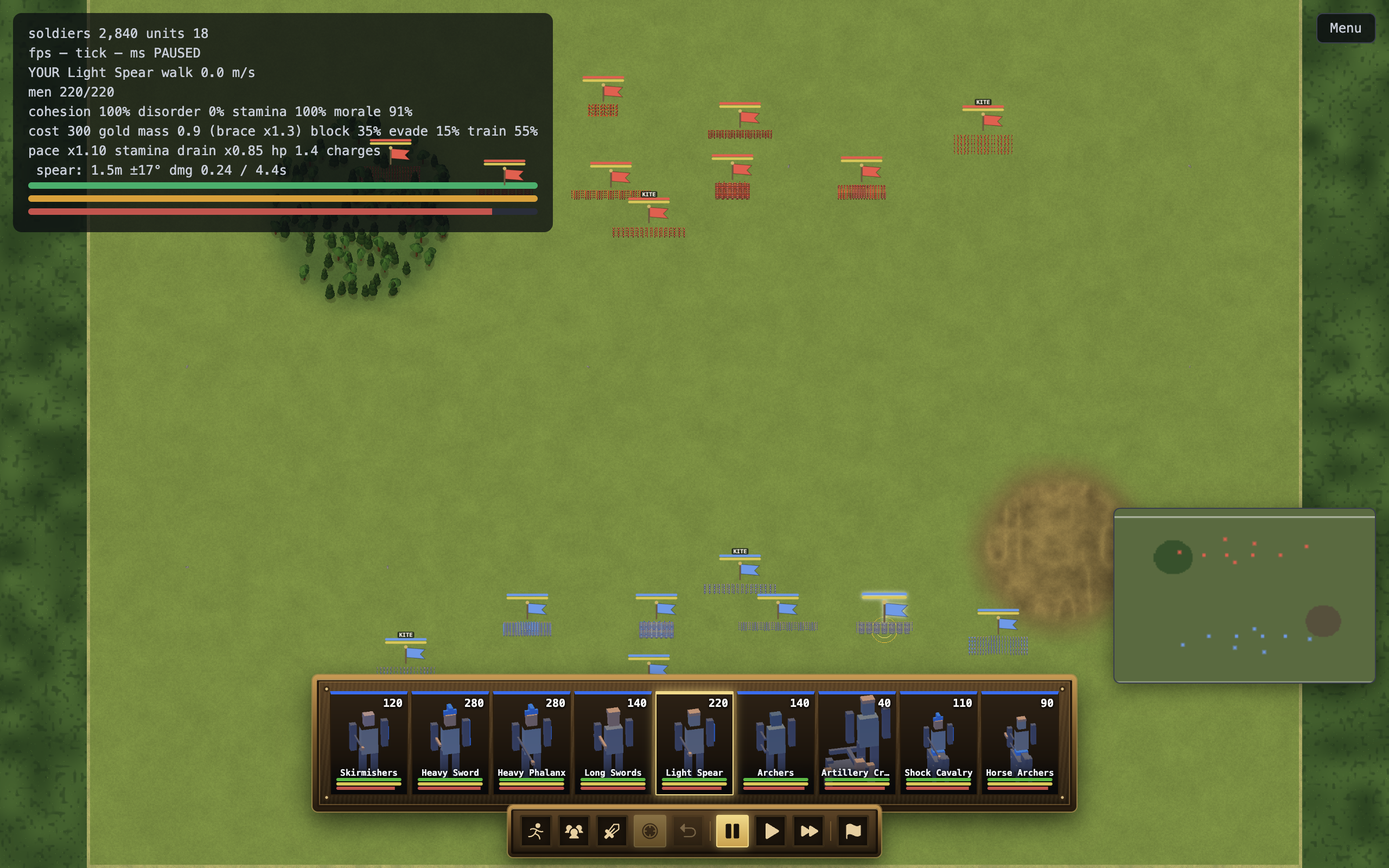
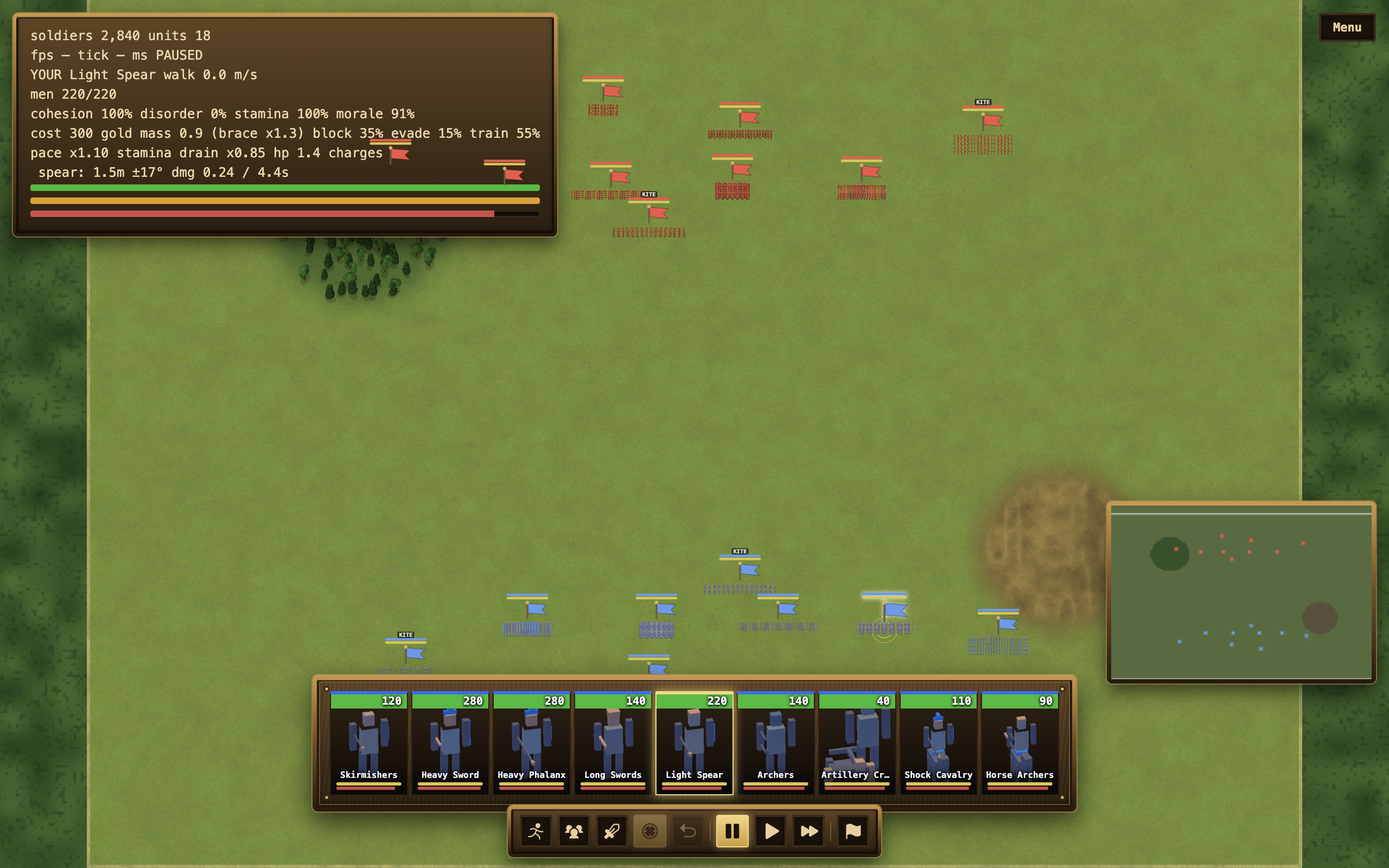
battle-ui: bronze the HUD info panel, top button, and minimap + spec
Begin the full battle-UI rewrite to the bronze game HUD (new specs/battle-ui):
seed shared design tokens in :root (--bronze-fill/-edge/-frame/-ink, --well-*) and
bring three more surfaces onto them —
- #hud (top-left unit-info panel): bronze housing, parchment text, stat bars in wells
- #buttons (top-right Menu): bronze well button
- #minimap: bronze beveled frame (canvas render untouched)
The whole battle HUD now reads as one Total War surface. battle-selection-dpr2
re-blessed. Menu + in-battle modals + the full token extraction remain.

diff --git a/web/index.html b/web/index.html
@@ -13,18 +13,34 @@
       font-display: swap;
     }
     html, body { margin: 0; height: 100%; overflow: hidden; background: #14161c; }
+    /* Bronze HUD design tokens — the one source for the game-UI chrome (card bar,
+       toolbar, info panel, minimap, buttons all consume these). A chassis is:
+       background: var(--bronze-fill) padding-box, var(--bronze-edge) border-box;
+       border: 3px solid transparent; box-shadow: var(--bronze-frame). */
+    :root {
+      --bronze-fill: linear-gradient(#5e4527, #2a1f11);
+      --bronze-edge: linear-gradient(#c79a54 0%, #6e5128 48%, #241a0e 100%);
+      --bronze-frame: inset 0 1px 0 rgba(236,200,132,0.6), inset 0 0 0 2px rgba(16,10,5,0.7), inset 0 -2px 6px rgba(0,0,0,0.55), 0 0 0 1px rgba(182,142,80,0.6), 0 7px 18px rgba(0,0,0,0.6);
+      --bronze-ink: #e7cfa0;
+      --bronze-ink-bright: #f6e4ba;
+      --well-bg: #1a130b;
+      --well-shadow: inset 0 0 0 1px rgba(150,114,62,0.3), inset 0 0 6px rgba(0,0,0,0.7);
+      --well-hover: inset 0 0 0 1px rgba(201,165,99,0.7), inset 0 0 6px rgba(0,0,0,0.6);
+    }
     #battlefield { display: block; width: 100vw; height: 100vh; }
     #hud {
       position: fixed; top: 12px; left: 12px;
       font: 12px/1.5 ui-monospace, Menlo, monospace;
-      color: #c8cdd8; background: rgba(10, 12, 16, 0.75);
-      padding: 10px 14px; border-radius: 8px; pointer-events: none;
-      min-width: 220px;
+      color: #ecd9b0; pointer-events: none; min-width: 220px;
+      padding: 9px 13px; border: 3px solid transparent; border-radius: 5px;
+      background: var(--bronze-fill) padding-box, var(--bronze-edge) border-box;
+      box-shadow: var(--bronze-frame);
     }
     #hud .bar {
-      height: 6px; background: #2a2e3a; border-radius: 3px; overflow: hidden; margin: 2px 0 6px;
+      height: 6px; background: rgba(6,8,5,0.8); border-radius: 2px; overflow: hidden; margin: 2px 0 6px;
+      box-shadow: inset 0 0 0 1px rgba(150,114,62,0.3);
     }
-    #hud .bar > div { height: 100%; background: #4caf6d; }
+    #hud .bar > div { height: 100%; background: #5cba46; }
     #help {
       position: fixed; bottom: 12px; left: 12px;
       font: 11px ui-monospace, Menlo, monospace; color: #6b7280;
@@ -33,11 +49,12 @@
       position: fixed; top: 12px; right: 12px; display: flex; gap: 8px;
     }
     #buttons button {
-      font: 12px ui-monospace, Menlo, monospace; color: #c8cdd8;
-      background: rgba(10,12,16,0.8); border: 1px solid #3a3f4d;
-      border-radius: 6px; padding: 6px 12px; cursor: pointer;
+      font: 700 11px ui-monospace, Menlo, monospace; color: var(--bronze-ink);
+      background: var(--well-bg); border: 1px solid #3a2c18;
+      border-radius: 2px; padding: 6px 12px; cursor: pointer;
+      box-shadow: var(--well-shadow);
     }
-    #buttons button:hover { background: rgba(40,44,56,0.9); }
+    #buttons button:hover { color: var(--bronze-ink-bright); box-shadow: var(--well-hover); }
     #manual {
       display: none; position: fixed; top: 48px; right: 270px; bottom: 172px; z-index: 50;
       width: min(520px, calc(100vw - 310px)); max-height: none;
@@ -204,10 +221,10 @@
     }
     #banner-gallery .ubanner-cap { font: 600 10px ui-monospace, Menlo, monospace; color: #cfe0bf; }
     #minimap {
-      position: fixed; right: 12px; bottom: 170px;
-      border: 1px solid #3a3f4d; border-radius: 6px;
-      background: #11141a; cursor: crosshair;
-      box-shadow: 0 4px 18px rgba(0,0,0,0.5);
+      position: fixed; right: 12px; bottom: 170px; cursor: crosshair;
+      border: 4px solid transparent; border-radius: 5px;
+      background: var(--bronze-fill) padding-box, var(--bronze-edge) border-box;
+      box-shadow: var(--bronze-frame);
       /* Above the world-space unit banners (#unitlabels, z-index 3) so a banner
          drawn over a unit near the corner can't bleed across the minimap. */
       z-index: 10;

diff --git a/specs/battle-ui/README.md b/specs/battle-ui/README.md
@@ -1,0 +1,95 @@
+# Battle UI — rewrite every surface to the bronze game HUD
+
+Rewrite **every** piece of the battle sim's UI so it reads as a diegetic Total War
+game HUD, not a web app: the menu, the top buttons, the unit-info panel, the
+minimap, the in-battle modals — all of it. The card bar and the order toolbar are
+already done and are the **reference implementations** for the look; this spec
+brings the rest of the surfaces up to the same bar and extracts the shared chrome
+so it stops being copy-pasted.
+
+## Next Agent Prompt
+
+**Status:** planned. _Last updated: 2026-06-30._ The card bar (`specs/card-bar/`)
+and the order toolbar shipped the bronze look; this spec generalizes it to the
+whole battle UI.
+
+**Start at Slice 1** (the shared design system) — every other slice depends on it.
+Then do the surfaces in any order; each is independently shippable and screenshot-
+gated. Update this section at the end of each pass.
+
+**Global TODO:**
+- [~] S1 — shared bronze-chrome design system. **Tokens seeded** in `index.html`
+  `:root` (`--bronze-fill/-edge/-frame/-ink`, `--well-*`); still to do: move them to
+  one source both shells consume, and refactor the card bar / toolbar off their
+  inline values (and the lab copy). (`slices/01-design-system.md`)
+- [x] S2 — top buttons (`#buttons`) + unit-info panel (`#hud`) → bronze (live).
+- [x] S3 — minimap housing (`#minimap`) → bronze beveled frame (live).
+- [ ] S4 — main menu + quick-battle / duel modals (`slices/04-menu.md`)
+- [ ] S5 — in-battle modals: gameover, pause menu, field manual, banner (`slices/05-modals.md`)
+- [x] _done_ — card bar + order toolbar (in `specs/card-bar/`), the look's reference impl
+
+## The aesthetic contract (hard rule — same as card-bar)
+
+Every surface obeys the [aesthetics](../../.claude/skills/aesthetics/SKILL.md)
+**"UI & HUD — a game surface, not a webapp"** rule, judged against
+`../card-bar/assets/reference-tw-cardbar.png` and the aesthetics `ui-cardbar-tw`
+reference. A surface fails if it shows a webapp tell: translucent gradient fades,
+floating rounded cards/pills with gutters, frameless flat panels, slate-grey
+neutrals, hover-lighten, CSS-shadow-as-glow, crisp UI outlines. The targets:
+
+- **Opaque worn-bronze housings** (beveled brass edge, recessed tray, rivets) for
+  every panel — the card bar / toolbar chassis is the template.
+- **Inset wells** for content; **bronze buttons** (recessed, brass `.on`/active,
+  dimmed disabled); **Phosphor fill icons** (no emoji, minimal text).
+- **Warm materials** — bronze, iron, leather, bone — never grey.
+- **Gold glow** for selection/active (the in-world selection language), parchment
+  for menu copy where the grand-strategy frame calls for it.
+
+## Slice 1 sets the seam: a shared chrome system
+
+The card bar proved the look but **duplicated** its CSS (`web/index.html` `<style>`
+and the lab `installStyles`). Do not repeat that per surface. Slice 1 extracts the
+chrome into **one source of truth** — CSS custom properties (bronze palette, bevel
+shadows, radii) plus a small set of classes (`.hud-chassis`, `.hud-well`,
+`.hud-btn`, `.hud-bar`) — that every surface and both shells (live `index.html`,
+renderer-lab) consume. This is also where the card-bar S5 "dedupe the two CSS
+copies" finally lands. Decide the delivery (a shared `.css` imported by both, or a
+TS module that injects the `<style>`) so the live game and the lab can't drift.
+
+## Surface inventory (what each slice rewrites)
+
+- **`#buttons` / `btn-menu`** (top-right) and **`#hud`** (top-left unit-info
+  readout) — S2. The HUD panel becomes a bronze well with the stat bars in the
+  card-bar bar style; the Menu button a bronze icon button (Phosphor `list` / `gear`).
+- **`#minimap`** (bottom-right DOM canvas) — S3. Wrap it in a bronze housing with a
+  beveled frame and a corner ornament; keep the canvas render untouched (firewall),
+  only frame it.
+- **`#menu-ui`** + `#quick-battle-modal` + `#duel-modal` — S4. The main menu and
+  setup modals: bronze/parchment panels, engraved (Cinzel) titles, bronze buttons,
+  no web cards. (The menu may lean more grand-strategy than battle bronze — judge
+  against the references.)
+- **`#gameover`, `#pausemenu`, `#manual`, `#banner`** — S5. In-battle dialogs as
+  bronze panels; the field manual as a framed scroll, not a web modal.
+
+## Scope firewall — do NOT touch
+
+- The WebGPU passes, terrain, soldier/crowd rendering, and the **minimap canvas
+  render** itself (`minimapPass.ts`, the `#minimap` drawing) — frame it, don't
+  redraw it.
+- Sim/wasm, `crates/**`, the unit-info buffer layout.
+- `UnitCards.update()`'s keyed bar logic.
+
+## Verification gates (standing, every surface)
+
+Each slice that changes a surface: screenshot it (the live battle HUD via the GPU
+scene for in-battle surfaces; the menu via its own scene), run
+[compare-screenshots](../../.claude/skills/compare-screenshots/SKILL.md) against
+the reference + aesthetics (blocking on the aesthetic contract — a clean layout is
+not enough), then an unprimed
+[screenshot-critique](../../.claude/skills/screenshot-critique/SKILL.md), and open
+the shots for the user with
+[preview-shots](../../.claude/skills/preview-shots/SKILL.md). Re-bless the moved
+baselines (`battle-selection-dpr2` and the menu shots) as reviewed changes.
+
+GPU note: in-battle HUD shots render headful with hardware flags (no headless
+WebGPU adapter on this machine).
